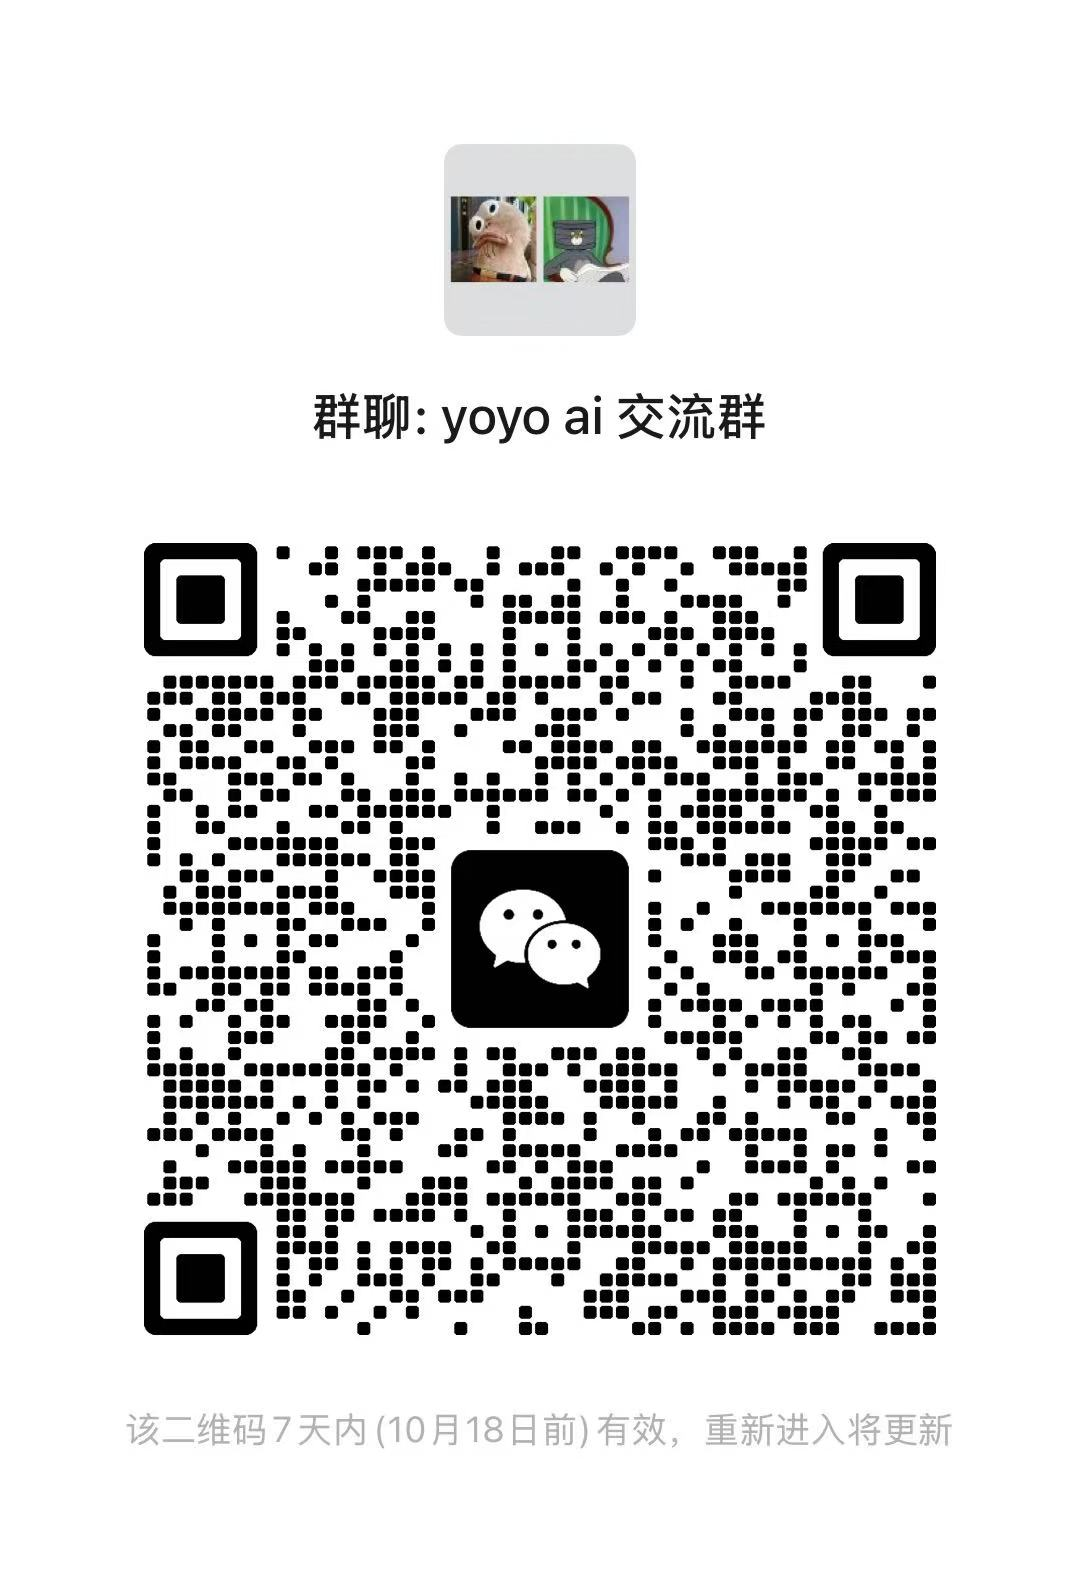
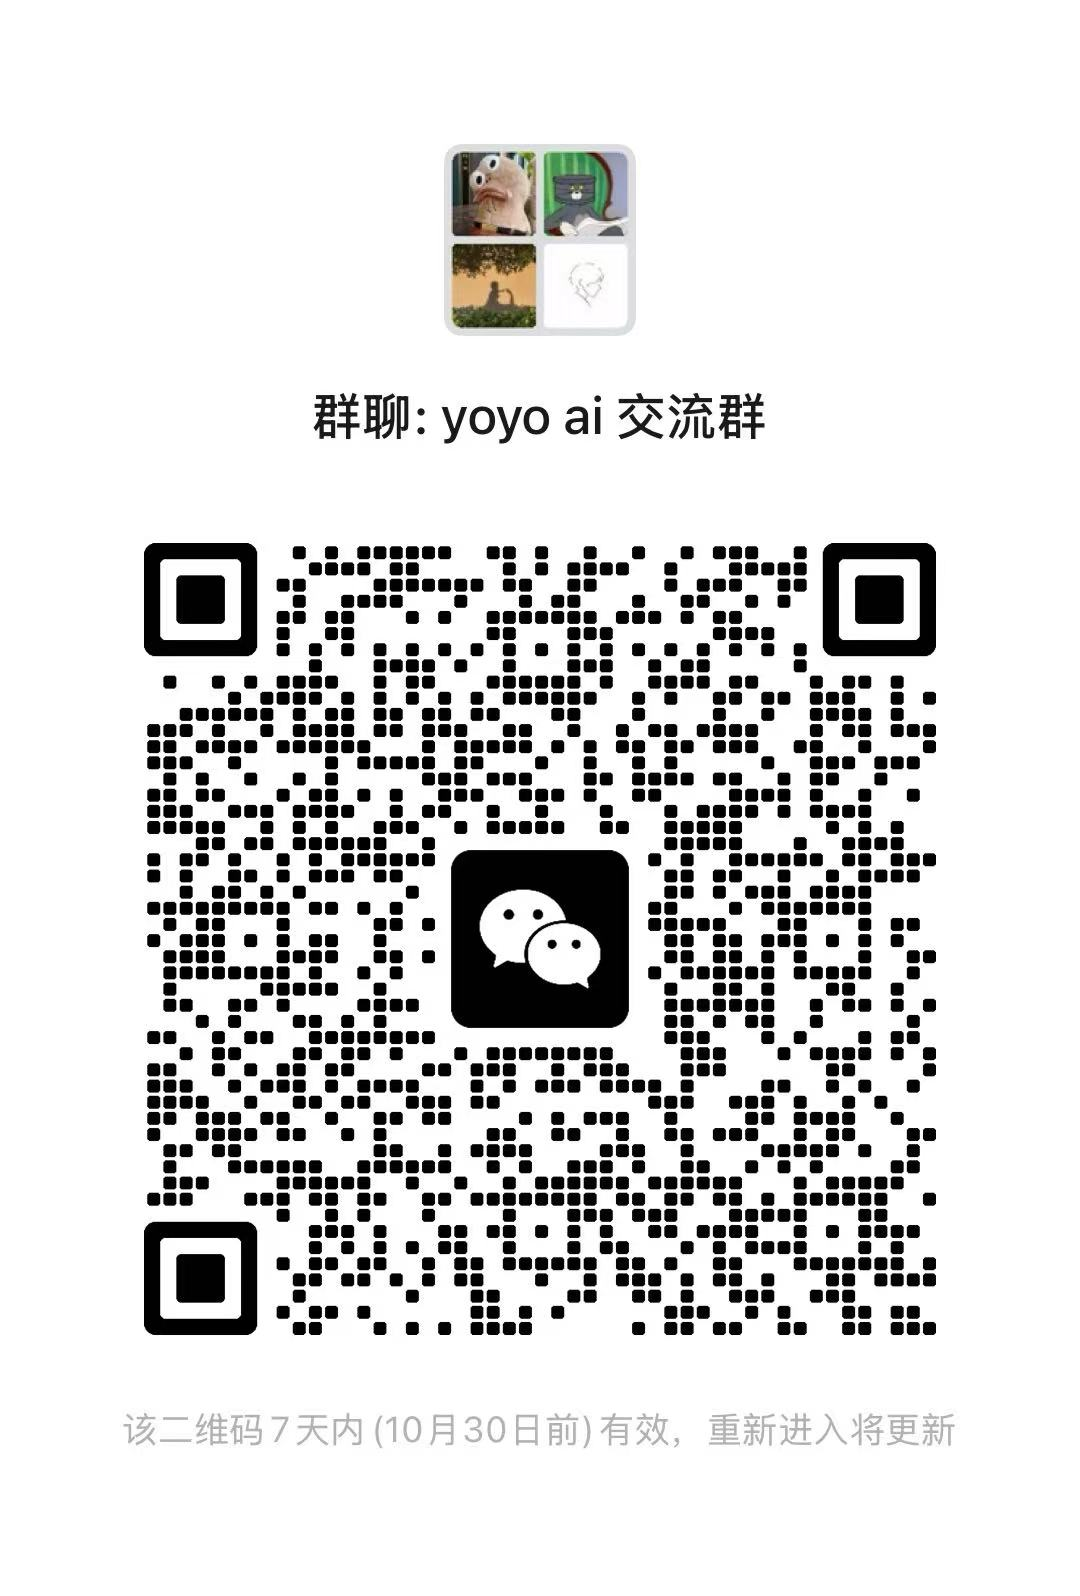
docs: refresh the group code and align the readme with 0.6.0.

diff --git a/README.md b/README.md
@@ -15,7 +15,7 @@
 
 Yoyo is one Go agent loop with three doors: a Wails desktop, a browser, and a CLI. It writes code, reviews hunks, opens an isolated browser, runs skill packs, and can shoot short-form video in its own folder. Prompts and playbooks may evolve. The evaluator, the vault, and the updater may not.
 
-**v0.4.1** · Apache-2.0 · Windows, macOS, Linux · bring your own OpenAI-compatible key
+**v0.6.0** · Apache-2.0 · Windows, macOS, Linux · bring your own OpenAI-compatible key
 
 [Download](https://github.com/Shenchangxin/yoyo/releases/latest) · [Product site](https://shenchangxin.github.io/yoyo/) · [Invariants](docs/architecture/invariants.md) · [Skill packs](docs/architecture/skill-packs.md)
 
@@ -27,7 +27,7 @@ Yoyo is one Go agent loop with three doors: a Wails desktop, a browser, and a CL
 | --- | --- |
 | **Agent** | A streaming turn. `@file` pins a file. Plan proposes. Stop keeps what already landed. |
 | **Review** | Tick hunks and apply them. An isolated browser for the page the agent opened. Search, rename, fork the thread. |
-| **Video** | Create, Drama, and Canvas share one chrome and their own folder. Not mixed with the code workspace. |
+| **Video** | Create, Shorts, Drama, and Canvas share one chrome and their own folder. Not mixed with the code workspace. |
 | **Skills** | Packs live in `~/.yoyo/packs/` and stay off until you enable them. `@skill` loads a domain pack for one turn. |
 | **Harness** | Prompts are content-addressed. Thumbs write `staging`. Evolve writes `canary`. Only Harbor, then you, can move `active`. |
 
@@ -130,9 +130,10 @@ The side pane is a queue.
 
 ### Video
 
-Create, Drama, and Canvas share chrome and a folder of their own. Keys and adapters live in Settings.
+Create, Shorts, Drama, and Canvas share chrome and a folder of their own. Keys and adapters live in Settings.
 
-- **Create** — describe a clip. Image, speech, and video adapters are yours.
+- **Create** — import a clip. The cut desk opens; dubbing and assembly stay there.
+- **Shorts** — pick a topic, then a finished short. Voice, assemble, and handoff live on that desk.
 - **Drama** — paste a chapter, confirm the episode plan, then shoot.
 - **Canvas** — a spatial board for shots. The editor stays plain so the picture stays readable.
 
@@ -270,8 +271,8 @@ cd frontend && npm install && npm run build
 CI runs Go tests on Windows and a frontend build on Ubuntu. Pushing a `v*` tag runs [release.yml](.github/workflows/release.yml):
 
 ```bash
-git tag v0.4.1
-git push origin v0.4.1
+git tag v0.6.0
+git push origin v0.6.0
 ```
 
 macOS builds are ad-hoc signed, not notarized. Windows and Linux packages are unsigned.
